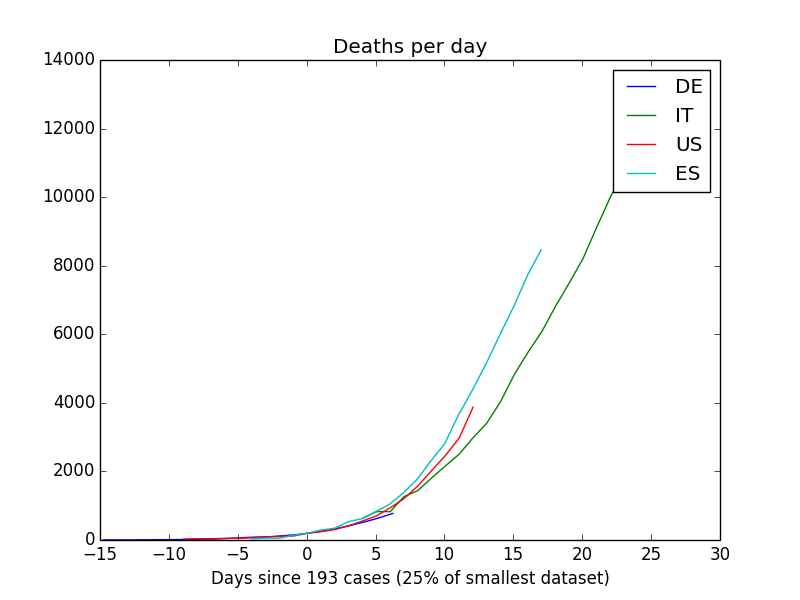
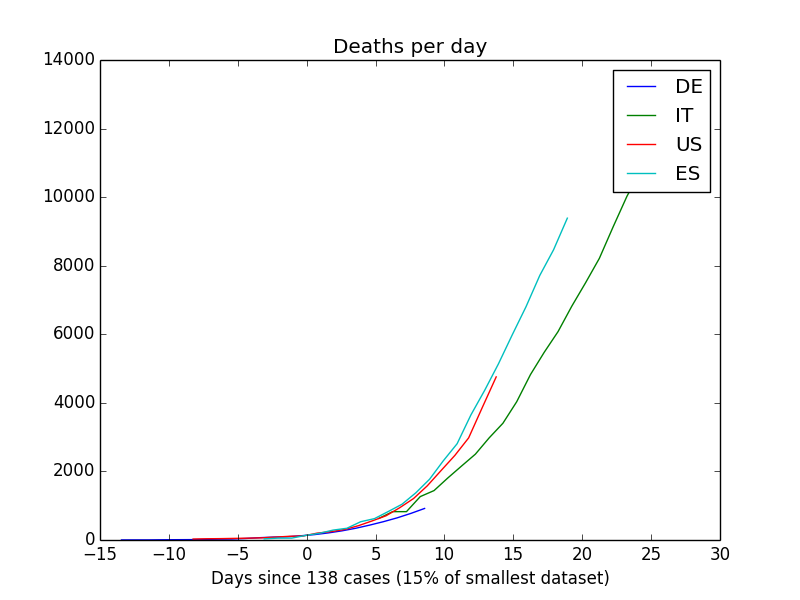
Redo plots and change normalization fraction for deaths plot to 15%

diff --git a/create_plots.py b/create_plots.py
@@ -10,6 +10,6 @@ from plots.death_rate import plot_normalized_death_rate
 
 plot_normalized_cumulative_data("Confirmed Cases per day", "figures/cases.png", 0.15, ("DE", data.csse.get_cases("Germany")), ("IT", data.csse.get_cases("Italy")), ("US", data.csse.get_cases("US")), ("ES", data.csse.get_cases("Spain")))
 
-plot_normalized_cumulative_data("Deaths per day", "figures/deaths.png", 0.25, ("DE", data.csse.get_deaths("Germany")), ("IT", data.csse.get_deaths("Italy")), ("US", data.csse.get_deaths("US")), ("ES", data.csse.get_deaths("Spain")))
+plot_normalized_cumulative_data("Deaths per day", "figures/deaths.png", 0.15, ("DE", data.csse.get_deaths("Germany")), ("IT", data.csse.get_deaths("Italy")), ("US", data.csse.get_deaths("US")), ("ES", data.csse.get_deaths("Spain")))
 
 #plot_normalized_death_rate("death_rate", "us", 7, data.csse.get_cases("US"), data.csse.get_deaths("US"))
